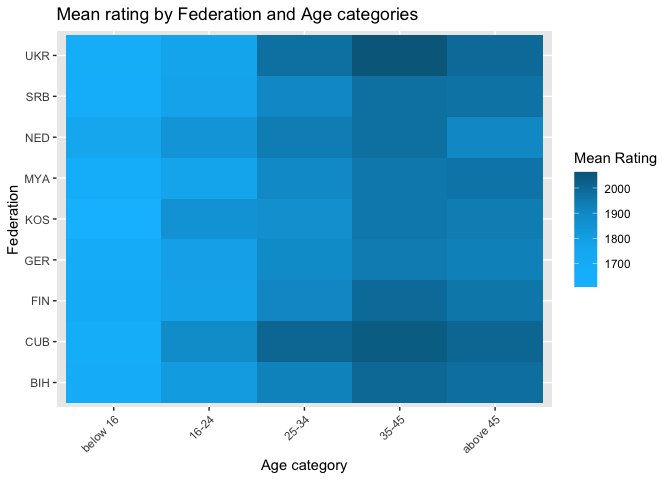
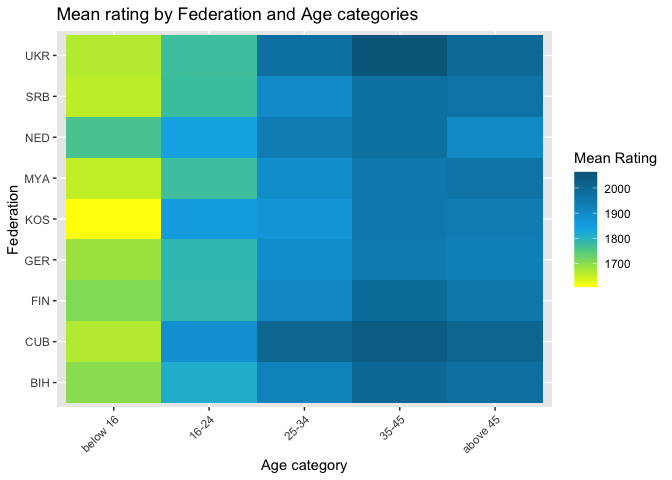
heatmap - updated contrasting colors

Changed region(s): [[0.0938, 0.0625, 0.4062, 0.8438], [0.8438, 0.4688, 0.9062, 0.5938]]

diff --git a/Projects/hd25viet/solution_by_hiuyan.md b/Projects/hd25viet/solution_by_hiuyan.md
@@ -1,18 +1,6 @@
 ## Dataset Manipulation
 
     library(tidyverse)
-
-    ## ── Attaching core tidyverse packages ──────────────────────── tidyverse 2.0.0 ──
-    ## ✔ dplyr     1.1.4     ✔ readr     2.1.5
-    ## ✔ forcats   1.0.0     ✔ stringr   1.5.1
-    ## ✔ ggplot2   3.5.1     ✔ tibble    3.2.1
-    ## ✔ lubridate 1.9.3     ✔ tidyr     1.3.1
-    ## ✔ purrr     1.0.2     
-    ## ── Conflicts ────────────────────────────────────────── tidyverse_conflicts() ──
-    ## ✖ dplyr::filter() masks stats::filter()
-    ## ✖ dplyr::lag()    masks stats::lag()
-    ## ℹ Use the conflicted package (<http://conflicted.r-lib.org/>) to force all conflicts to become errors
-
     file <- "standard_rating_list.txt"
     df <- read_fwf(file=file, 
                    fwf_empty(file, 
@@ -27,42 +15,7 @@
           mutate(# using cut already create factor-typed column
                  bin = cut(2024-Birthday, breaks=c(1,16,25,35,46,Inf), labels=c("below 16", "16-24", "25-34", "35-45", "above 45"))
                  ) %>%
-          drop_na(bin) %>% 
-          print(n=20)
-
-    ## Rows: 498022 Columns: 13
-    ## ── Column specification ────────────────────────────────────────────────────────
-    ## 
-    ## chr (8): Name, Fed, Sex, Tit, WTit, OTit, FOA, Flag
-    ## dbl (5): ID, APR25, Gms, K, Birthday
-    ## 
-    ## ℹ Use `spec()` to retrieve the full column specification for this data.
-    ## ℹ Specify the column types or set `show_col_types = FALSE` to quiet this message.
-
-    ## # A tibble: 489,590 × 5
-    ##    Name                           Fed   APR25 Birthday bin     
-    ##    <chr>                          <chr> <dbl>    <dbl> <fct>   
-    ##  1 A B M Jobair, Hossain          BAN    1750     1998 25-34   
-    ##  2 A C J John                     IND    1438     1987 35-45   
-    ##  3 A Chakravarthy                 IND    1491     1986 35-45   
-    ##  4 A Darshil                      IND    1427     2013 below 16
-    ##  5 A E M, Doshtagir               BAN    1904     1974 above 45
-    ##  6 A F M Ehteshamul, Hoque (tuhin BAN    1796     1977 above 45
-    ##  7 A hamed Ashraf, Abdallah       EGY    1837     2001 16-24   
-    ##  8 A Hamid, Harman                MAS    1552     1970 above 45
-    ##  9 A I Sabbir                     BAN    1607     1995 25-34   
-    ## 10 A K, Kalshyan                  IND    1803     1964 above 45
-    ## 11 A La, Teng Hua                 CHN    1949     1993 25-34   
-    ## 12 A Q M Salahuddin, Khan         BAN    1695     1977 above 45
-    ## 13 A S M Khalid, Hasan            BAN    1751     1988 35-45   
-    ## 14 A S M Mashrur, Zaman           BAN    1614     2008 below 16
-    ## 15 A S M Soyaeb, Reza             BAN    1592     2006 16-24   
-    ## 16 A, L M Wayes Faruki            BAN    1714     2015 below 16
-    ## 17 A, N M Ziaul Islam Mithu       BAN    1653     1974 above 45
-    ## 18 A, Sohita                      IND    1668     1995 25-34   
-    ## 19 A. HUDSON                      IND    1644     2013 below 16
-    ## 20 A. K. Azad, Akhond             BAN    1779     1971 above 45
-    ## # ℹ 489,570 more rows
+          drop_na(bin)
 
     by_country_by_age <- group_by(df, Fed, bin) %>%
       summarise(mean_rating=mean(APR25, na.rm=TRUE), .groups="drop") %>%
@@ -209,22 +162,6 @@
 
     ridgePlot
 
-    ## Warning: The dot-dot notation (`..x..`) was deprecated in ggplot2 3.4.0.
-    ## ℹ Please use `after_stat(x)` instead.
-    ## This warning is displayed once every 8 hours.
-    ## Call `lifecycle::last_lifecycle_warnings()` to see where this warning was
-    ## generated.
-
-    ## Picking joint bandwidth of 51.5
-
-    ## Picking joint bandwidth of 38.8
-
-    ## Picking joint bandwidth of 52.4
-
-    ## Picking joint bandwidth of 38.7
-
-    ## Picking joint bandwidth of 37.5
-
 ![](solution_by_hiuyan_files/figure-markdown_strict/unnamed-chunk-2-1.png)
 
 -   Heatmap
@@ -232,13 +169,6 @@
 <!-- -->
 
     library(reshape2)
-
-    ## 
-    ## Attaching package: 'reshape2'
-
-    ## The following object is masked from 'package:tidyr':
-    ## 
-    ##     smiths
 
     age_groups <- c("below 16", "16-24", "25-34", "35-45", "above 45") # for strict ordering
 
@@ -253,7 +183,7 @@
 
     ggplot(df_heatmap_pivot, aes(x = Age, y = Fed, fill = APR25)) +
       geom_tile() +  # heatmap needs tiles
-      scale_fill_gradientn(colors = colorRampPalette(c("deepskyblue","deepskyblue2", "deepskyblue4"))(4), 
+      scale_fill_gradientn(colors = colorRampPalette(c("yellow","deepskyblue2", "deepskyblue4"))(20),
                            name = "Mean Rating") + # more fine-grained palette
       labs(title = "Mean rating by Federation and Age categories", 
            x = "Age category", 
